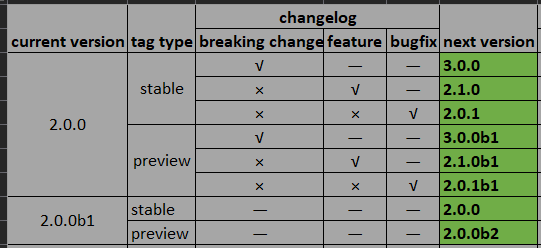
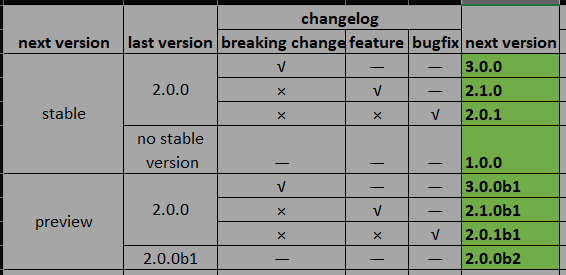
update package version rule

diff --git a/doc/dev/package_version/package_version_rule.md b/doc/dev/package_version/package_version_rule.md
@@ -1,40 +1,39 @@
-This file claims the rules how Python decide next version number for package.
+This file claims the rules how Python calculate next package version number.
 
-The package version contains two part:
-1. the package is preview or stable?
-2. version number
+The package version contains two parts:
 
-# How to judge preview or stable?
-Python SDK is generated with [swagger](https://github.com/Azure/azure-rest-api-specs), so if swagger content is preview, 
-the package is preview; if swagger content is stable, the package is stable.
+1. Package version shall be preview or stable
+2. After 1 decided, how to calculate next package version
 
-(1) For single api package(for example: [datadog](https://github.com/Azure/azure-sdk-for-python/tree/main/sdk/datadog)),
- as long as the current tag is preview, the package version should be preview
+# Package version shall be preview or stable
 
-(2) For multi api package(for example: [network](https://github.com/Azure/azure-sdk-for-python/tree/main/sdk/network/azure-mgmt-network)), 
-there will be `DEFAULT_API_VERSION`(for example: [`DEFAULT_API_VERSION` of network](https://github.com/Azure/azure-sdk-for-python/blob/59709af16b7cd29a51d562137bc5bbfdf53f9327/sdk/network/azure-mgmt-network/azure/mgmt/network/_network_management_client.py#L60)). 
+If Python SDK contains preview api-version (like "2020-01-01-preview"), its version is preview; Otherwise, it should be stable.
+
+(1) For single-api package(for example: [confidentialledger](https://github.com/azure-sdk/azure-sdk-for-python/blob/a56c4b44911e173a89cb051aefc588e189e42654/sdk/confidentialledger/azure-mgmt-confidentialledger/azure/mgmt/confidentialledger/_configuration.py#L39)),
+ as long as it contains preview api-version, the package version should be preview
+
+(2) For multi-api package(for example: [network](https://github.com/Azure/azure-sdk-for-python/tree/main/sdk/network/azure-mgmt-network)), 
+there will be `DEFAULT_API_VERSION`(for example: [`DEFAULT_API_VERSION` of network](https://github.com/Azure/azure-sdk-for-python/blob/0b3fb9ef0bee54f23beb7a4913faaaef5be90d9b/sdk/network/azure-mgmt-network/azure/mgmt/network/_network_management_client.py#L57)). 
 As long as it is preview, then the package version is preview.
 
-(note1: If the name of tag contains 'preview' or the tag contains files of 'preview' folder, then the tag is preview tag. 
-For exampe: [preview tag](https://github.com/Azure/azure-rest-api-specs/tree/main/specification/compute/resource-manager#tag-package-2021-06-01-preview))
+(note1: For more info about multi-api package, please refer to [multiapi.md](https://github.com/Azure/azure-sdk-for-python/blob/main/doc/dev/mgmt/multiapi.md))
 
-(note2: If the api-version contains 'preview', then it is preview api-version. for example: [preview api-version](https://github.com/Azure/azure-rest-api-specs/blob/69eacf00a36d565d3220d5dd6f4a5293664f1ae9/specification/network/resource-manager/Microsoft.Network/preview/2015-05-01-preview/network.json#L6))
+(note2: preview package version contains `b`, for example: `1.0.0b1`)
 
-(note3: The difference about single api and multi api, please see the detailed file)
+# How to calculate next package version
+1\. If next version is preview and last version is preview: next version is `x.x.xbx+1`
 
-(note4: preview package version contains `b`, for example: `1.0.0b1`)
+2\. If next version is preview and last version is stable:
+ * if there is breaking change, next version is `x+1.x.xb1`
+ * if there is new feature but no breaking change, next version is `x.x+1.xb1`
+ * if there is only bugfix, next version is `x.x.x+1b1`
 
-# How to decide next version number
-1\. If current version is preview version, the new tag is preview tag, then next version is `x.x.xbx+1`
-
-2\. If current version is stable version, the new tag is stable tag, then :
+3\. If next version is stable and last stable version exists:
  * if there is breaking change, next version is `x+1.x.x`
  * if there is new feature but no breaking change, next version is `x.x+1.x`
  * if there is only bugfix, next version is `x.x.x+1`
 
-3\. If current version is stable version, the new tag is preview tag, calculate version number according to `2` 
-and then append `b1` in the result
-
+4\. If next version is stable and last stable version doesn't exist, then next version shall be first GA version `1.0.0`
 
 According to the up rules, we could summarize all the possibilities in the following table:
 
